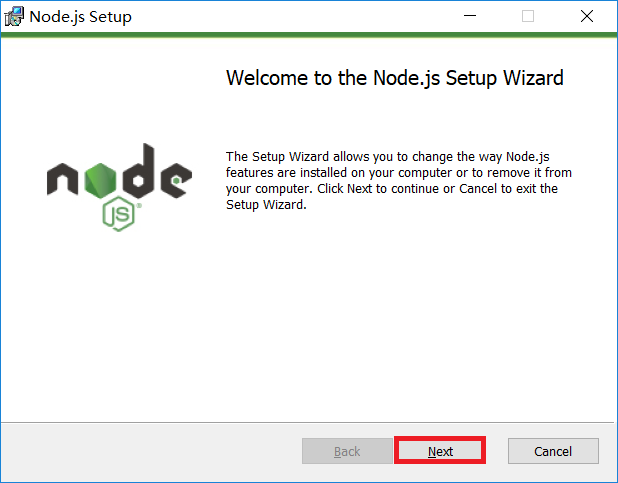
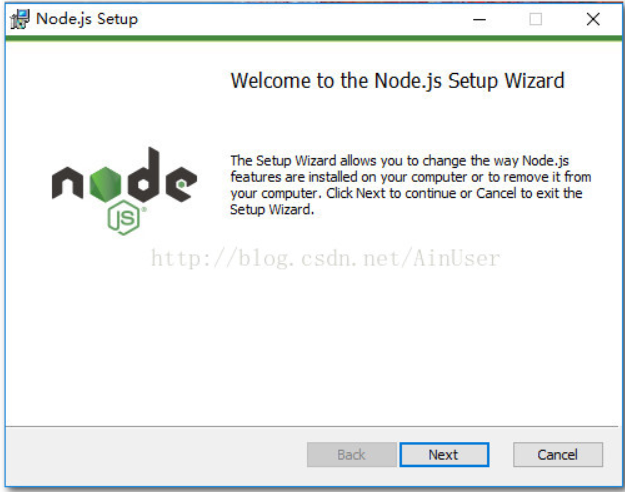
Site updated: 2018-10-15 10:14:35

diff --git a/2018/10/15/Hexo-Github搭建个人博客/index.html b/2018/10/15/Hexo-Github搭建个人博客/index.html
@@ -13,17 +13,18 @@
 <meta property="og:site_name" content="去年夏天">
 <meta property="og:description" content="环境配置：    电脑系统为window 10专业版，64位，Nodejs, Github, Hexo, livere, Leancloud, ShareSDK, Dalao    原文：https://blog.csdn.net/ainuser/article/details/77609180?utm_source=copy    首先呢，先说一下吧，这是本人第一次写博客，也是在大学生时代的一个">
 <meta property="og:locale" content="default">
+<meta property="og:image" content="http://www.lastsummer.top/2018/10/15/Hexo-Github搭建个人博客/nodejs1.png">
 <meta property="og:image" content="http://www.lastsummer.top/2018/10/15/Hexo-Github搭建个人博客/nodejs2.png">
 <meta property="og:image" content="http://www.lastsummer.top/2018/10/15/Hexo-Github搭建个人博客/nodejs3.png">
 <meta property="og:image" content="http://www.lastsummer.top/2018/10/15/Hexo-Github搭建个人博客/nodejs4.png">
 <meta property="og:image" content="http://www.lastsummer.top/2018/10/15/Hexo-Github搭建个人博客/nodejs5.png">
 <meta property="og:image" content="http://www.lastsummer.top/2018/10/15/Hexo-Github搭建个人博客/nodejs6.png">
 <meta property="og:image" content="http://www.lastsummer.top/2018/10/15/Hexo-Github搭建个人博客/nodejs7.png">
-<meta property="og:updated_time" content="2018-10-15T02:11:49.911Z">
+<meta property="og:updated_time" content="2018-10-15T02:13:15.352Z">
 <meta name="twitter:card" content="summary">
 <meta name="twitter:title" content="Hexo-Github搭建个人博客">
 <meta name="twitter:description" content="环境配置：    电脑系统为window 10专业版，64位，Nodejs, Github, Hexo, livere, Leancloud, ShareSDK, Dalao    原文：https://blog.csdn.net/ainuser/article/details/77609180?utm_source=copy    首先呢，先说一下吧，这是本人第一次写博客，也是在大学生时代的一个">
-<meta name="twitter:image" content="http://www.lastsummer.top/2018/10/15/Hexo-Github搭建个人博客/nodejs2.png">
+<meta name="twitter:image" content="http://www.lastsummer.top/2018/10/15/Hexo-Github搭建个人博客/nodejs1.png">
   
     <link rel="alternate" href="/atom.xml" title="去年夏天" type="application/atom+xml">
   
@@ -132,14 +133,14 @@
     <div class="article-entry" itemprop="articleBody">
       
         <p>环境配置：<br>    电脑系统为window 10专业版，64位，Nodejs, Github, Hexo, livere, Leancloud, ShareSDK, Dalao<br>    原文：<a href="https://blog.csdn.net/ainuser/article/details/77609180?utm_source=copy" target="_blank" rel="noopener">https://blog.csdn.net/ainuser/article/details/77609180?utm_source=copy</a>    <br><br>首先呢，先说一下吧，这是本人第一次写博客，也是在大学生时代的一个想法，现在终于实现了。<br>花了几天的时间，研究了一下，颇有收获，而我在找资料的过程中，都是这个博客找点那个博客找点，都没有一个博客的教程是很详细且到位的，哎，醉了，感谢你们一直看到这里听我在这里碎碎念，最后啰嗦一句，有什么问题，及时下方评论(不是私信)，因为我几乎每天登陆博客，所以看到后会及时回复大家的。</p>
-<h2 id="相关步骤"><a href="#相关步骤" class="headerlink" title="相关步骤"></a>相关步骤</h2><h3 id="安装Node-js和配置好Node-js环境-我的版本node-v10-11-0-x64-msi"><a href="#安装Node-js和配置好Node-js环境-我的版本node-v10-11-0-x64-msi" class="headerlink" title="安装Node.js和配置好Node.js环境,我的版本node-v10.11.0-x64.msi"></a>安装Node.js和配置好Node.js环境,我的版本node-v10.11.0-x64.msi</h3><p>1.访问官方地址 <a href="https://nodejs.org/en/download/" target="_blank" rel="noopener">https://nodejs.org/en/download/</a> 根据自己的系统进行下载。<br>!(Hexo-Github搭建个人博客/nodejs1.png)<br><img src="/2018/10/15/Hexo-Github搭建个人博客/nodejs2.png" alt="点击next"><br><img src="/2018/10/15/Hexo-Github搭建个人博客/nodejs3.png" alt="点击next"><br><img src="/2018/10/15/Hexo-Github搭建个人博客/nodejs4.png" alt="修改安装路径，点击next"><br><img src="/2018/10/15/Hexo-Github搭建个人博客/nodejs5.png" alt="点击next"><br><img src="/2018/10/15/Hexo-Github搭建个人博客/nodejs6.png" alt="点击Install"><br><img src="/2018/10/15/Hexo-Github搭建个人博客/nodejs7.png" alt="点击Finish"><br>至此，node.js安装步骤完毕。<br><figure class="highlight bash"><table><tr><td class="gutter"><pre><span class="line">1</span><br><span class="line">2</span><br></pre></td><td class="code"><pre><span class="line"></span><br><span class="line"></span><br></pre></td></tr></table></figure></p>
+<h2 id="相关步骤"><a href="#相关步骤" class="headerlink" title="相关步骤"></a>相关步骤</h2><h3 id="安装Node-js和配置好Node-js环境-我的版本node-v10-11-0-x64-msi"><a href="#安装Node-js和配置好Node-js环境-我的版本node-v10-11-0-x64-msi" class="headerlink" title="安装Node.js和配置好Node.js环境,我的版本node-v10.11.0-x64.msi"></a>安装Node.js和配置好Node.js环境,我的版本node-v10.11.0-x64.msi</h3><p>1.访问官方地址 <a href="https://nodejs.org/en/download/" target="_blank" rel="noopener">https://nodejs.org/en/download/</a> 根据自己的系统进行下载。<br><img src="/2018/10/15/Hexo-Github搭建个人博客/nodejs1.png" alt=""><br><img src="/2018/10/15/Hexo-Github搭建个人博客/nodejs2.png" alt="点击next"><br><img src="/2018/10/15/Hexo-Github搭建个人博客/nodejs3.png" alt="点击next"><br><img src="/2018/10/15/Hexo-Github搭建个人博客/nodejs4.png" alt="修改安装路径，点击next"><br><img src="/2018/10/15/Hexo-Github搭建个人博客/nodejs5.png" alt="点击next"><br><img src="/2018/10/15/Hexo-Github搭建个人博客/nodejs6.png" alt="点击Install"><br><img src="/2018/10/15/Hexo-Github搭建个人博客/nodejs7.png" alt="点击Finish"><br>至此，node.js安装步骤完毕。<br><figure class="highlight bash"><table><tr><td class="gutter"><pre><span class="line">1</span><br><span class="line">2</span><br></pre></td><td class="code"><pre><span class="line"></span><br><span class="line"></span><br></pre></td></tr></table></figure></p>
 <p>More info: <a href="https://hexo.io/docs/writing.html" target="_blank" rel="noopener">Writing</a></p>
 <a id="more"></a>
 
       
     </div>
     <footer class="article-footer">
-      <a data-url="http://www.lastsummer.top/2018/10/15/Hexo-Github搭建个人博客/" data-id="cjn9ny0y0000278vbwm3iiaes" class="article-share-link-test"></a>
+      <a data-url="http://www.lastsummer.top/2018/10/15/Hexo-Github搭建个人博客/" data-id="cjn9o14hx00028gvbn8nfjiw8" class="article-share-link-test"></a>
       
       
   <ul class="article-tag-list"><li class="article-tag-list-item"><a class="article-tag-list-link" href="/tags/Dalao/">Dalao</a></li><li class="article-tag-list-item"><a class="article-tag-list-link" href="/tags/Git/">Git</a></li><li class="article-tag-list-item"><a class="article-tag-list-link" href="/tags/GitHub/">GitHub</a></li><li class="article-tag-list-item"><a class="article-tag-list-link" href="/tags/Hexo/">Hexo</a></li><li class="article-tag-list-item"><a class="article-tag-list-link" href="/tags/Leancloud/">Leancloud</a></li><li class="article-tag-list-item"><a class="article-tag-list-link" href="/tags/Nodejs/">Nodejs</a></li><li class="article-tag-list-item"><a class="article-tag-list-link" href="/tags/ShareSDK/">ShareSDK</a></li><li class="article-tag-list-item"><a class="article-tag-list-link" href="/tags/livere/">livere</a></li></ul>

diff --git a/index.html b/index.html
@@ -122,7 +122,7 @@
     <div class="article-entry" itemprop="articleBody">
       
         <p>环境配置：<br>    电脑系统为window 10专业版，64位，Nodejs, Github, Hexo, livere, Leancloud, ShareSDK, Dalao<br>    原文：<a href="https://blog.csdn.net/ainuser/article/details/77609180?utm_source=copy" target="_blank" rel="noopener">https://blog.csdn.net/ainuser/article/details/77609180?utm_source=copy</a>    <br><br>首先呢，先说一下吧，这是本人第一次写博客，也是在大学生时代的一个想法，现在终于实现了。<br>花了几天的时间，研究了一下，颇有收获，而我在找资料的过程中，都是这个博客找点那个博客找点，都没有一个博客的教程是很详细且到位的，哎，醉了，感谢你们一直看到这里听我在这里碎碎念，最后啰嗦一句，有什么问题，及时下方评论(不是私信)，因为我几乎每天登陆博客，所以看到后会及时回复大家的。</p>
-<h2 id="相关步骤"><a href="#相关步骤" class="headerlink" title="相关步骤"></a>相关步骤</h2><h3 id="安装Node-js和配置好Node-js环境-我的版本node-v10-11-0-x64-msi"><a href="#安装Node-js和配置好Node-js环境-我的版本node-v10-11-0-x64-msi" class="headerlink" title="安装Node.js和配置好Node.js环境,我的版本node-v10.11.0-x64.msi"></a>安装Node.js和配置好Node.js环境,我的版本node-v10.11.0-x64.msi</h3><p>1.访问官方地址 <a href="https://nodejs.org/en/download/" target="_blank" rel="noopener">https://nodejs.org/en/download/</a> 根据自己的系统进行下载。<br>!(Hexo-Github搭建个人博客/nodejs1.png)<br><img src="/2018/10/15/Hexo-Github搭建个人博客/nodejs2.png" alt="点击next"><br><img src="/2018/10/15/Hexo-Github搭建个人博客/nodejs3.png" alt="点击next"><br><img src="/2018/10/15/Hexo-Github搭建个人博客/nodejs4.png" alt="修改安装路径，点击next"><br><img src="/2018/10/15/Hexo-Github搭建个人博客/nodejs5.png" alt="点击next"><br><img src="/2018/10/15/Hexo-Github搭建个人博客/nodejs6.png" alt="点击Install"><br><img src="/2018/10/15/Hexo-Github搭建个人博客/nodejs7.png" alt="点击Finish"><br>至此，node.js安装步骤完毕。<br><figure class="highlight bash"><table><tr><td class="gutter"><pre><span class="line">1</span><br><span class="line">2</span><br></pre></td><td class="code"><pre><span class="line"></span><br><span class="line"></span><br></pre></td></tr></table></figure></p>
+<h2 id="相关步骤"><a href="#相关步骤" class="headerlink" title="相关步骤"></a>相关步骤</h2><h3 id="安装Node-js和配置好Node-js环境-我的版本node-v10-11-0-x64-msi"><a href="#安装Node-js和配置好Node-js环境-我的版本node-v10-11-0-x64-msi" class="headerlink" title="安装Node.js和配置好Node.js环境,我的版本node-v10.11.0-x64.msi"></a>安装Node.js和配置好Node.js环境,我的版本node-v10.11.0-x64.msi</h3><p>1.访问官方地址 <a href="https://nodejs.org/en/download/" target="_blank" rel="noopener">https://nodejs.org/en/download/</a> 根据自己的系统进行下载。<br><img src="/2018/10/15/Hexo-Github搭建个人博客/nodejs1.png" alt=""><br><img src="/2018/10/15/Hexo-Github搭建个人博客/nodejs2.png" alt="点击next"><br><img src="/2018/10/15/Hexo-Github搭建个人博客/nodejs3.png" alt="点击next"><br><img src="/2018/10/15/Hexo-Github搭建个人博客/nodejs4.png" alt="修改安装路径，点击next"><br><img src="/2018/10/15/Hexo-Github搭建个人博客/nodejs5.png" alt="点击next"><br><img src="/2018/10/15/Hexo-Github搭建个人博客/nodejs6.png" alt="点击Install"><br><img src="/2018/10/15/Hexo-Github搭建个人博客/nodejs7.png" alt="点击Finish"><br>至此，node.js安装步骤完毕。<br><figure class="highlight bash"><table><tr><td class="gutter"><pre><span class="line">1</span><br><span class="line">2</span><br></pre></td><td class="code"><pre><span class="line"></span><br><span class="line"></span><br></pre></td></tr></table></figure></p>
 <p>More info: <a href="https://hexo.io/docs/writing.html" target="_blank" rel="noopener">Writing</a></p>
         
           <p class="article-more-link">
@@ -132,7 +132,7 @@
       
     </div>
     <footer class="article-footer">
-      <a data-url="http://www.lastsummer.top/2018/10/15/Hexo-Github搭建个人博客/" data-id="cjn9ny0y0000278vbwm3iiaes" class="article-share-link-test"></a>
+      <a data-url="http://www.lastsummer.top/2018/10/15/Hexo-Github搭建个人博客/" data-id="cjn9o14hx00028gvbn8nfjiw8" class="article-share-link-test"></a>
       
       
   <ul class="article-tag-list"><li class="article-tag-list-item"><a class="article-tag-list-link" href="/tags/Dalao/">Dalao</a></li><li class="article-tag-list-item"><a class="article-tag-list-link" href="/tags/Git/">Git</a></li><li class="article-tag-list-item"><a class="article-tag-list-link" href="/tags/GitHub/">GitHub</a></li><li class="article-tag-list-item"><a class="article-tag-list-link" href="/tags/Hexo/">Hexo</a></li><li class="article-tag-list-item"><a class="article-tag-list-link" href="/tags/Leancloud/">Leancloud</a></li><li class="article-tag-list-item"><a class="article-tag-list-link" href="/tags/Nodejs/">Nodejs</a></li><li class="article-tag-list-item"><a class="article-tag-list-link" href="/tags/ShareSDK/">ShareSDK</a></li><li class="article-tag-list-item"><a class="article-tag-list-link" href="/tags/livere/">livere</a></li></ul>
@@ -234,7 +234,7 @@
       
     </div>
     <footer class="article-footer">
-      <a data-url="http://www.lastsummer.top/2018/10/11/hello-world/" data-id="cjn9ny0y6000478vbii81efjw" class="article-share-link-test"></a>
+      <a data-url="http://www.lastsummer.top/2018/10/11/hello-world/" data-id="cjn9o14i200048gvbcdy4f65o" class="article-share-link-test"></a>
       
       
   <ul class="article-tag-list"><li class="article-tag-list-item"><a class="article-tag-list-link" href="/tags/test/">test</a></li></ul>

diff --git a/2018/10/11/hello-world/index.html b/2018/10/11/hello-world/index.html
@@ -137,7 +137,7 @@
       
     </div>
     <footer class="article-footer">
-      <a data-url="http://www.lastsummer.top/2018/10/11/hello-world/" data-id="cjn9ny0y6000478vbii81efjw" class="article-share-link-test"></a>
+      <a data-url="http://www.lastsummer.top/2018/10/11/hello-world/" data-id="cjn9o14i200048gvbcdy4f65o" class="article-share-link-test"></a>
       
       
   <ul class="article-tag-list"><li class="article-tag-list-item"><a class="article-tag-list-link" href="/tags/test/">test</a></li></ul>

diff --git a/photos/index.html b/photos/index.html
@@ -200,7 +200,7 @@ photo.init();
       
     </div>
     <footer class="article-footer">
-      <a data-url="http://www.lastsummer.top/photos/index.html" data-id="cjn9ny0yc000978vb8mmlvdhh" class="article-share-link-test"></a>
+      <a data-url="http://www.lastsummer.top/photos/index.html" data-id="cjn9o14id000c8gvbti5vxl0h" class="article-share-link-test"></a>
       
       
     </footer>

diff --git a/about/index.html b/about/index.html
@@ -115,7 +115,7 @@
       
     </div>
     <footer class="article-footer">
-      <a data-url="http://www.lastsummer.top/about/index.html" data-id="cjn9ny0y4000378vbdqi21ra7" class="article-share-link-test"></a>
+      <a data-url="http://www.lastsummer.top/about/index.html" data-id="cjn9o14i100038gvbdamur3sg" class="article-share-link-test"></a>
       
       
     </footer>

diff --git a/README.html b/README.html
@@ -100,7 +100,7 @@
       
     </div>
     <footer class="article-footer">
-      <a data-url="http://www.lastsummer.top/README.html" data-id="cjn9ny0xa000078vbashh83w4" class="article-share-link-test"></a>
+      <a data-url="http://www.lastsummer.top/README.html" data-id="cjn9o14hb00008gvbdsytlkni" class="article-share-link-test"></a>
       
       
     </footer>

diff --git a/404.html b/404.html
@@ -114,7 +114,7 @@
       
     </div>
     <footer class="article-footer">
-      <a data-url="http://www.lastsummer.top//404.html" data-id="cjn9ny0xn000178vbpmlb08f3" class="article-share-link-test"></a>
+      <a data-url="http://www.lastsummer.top//404.html" data-id="cjn9o14hw00018gvbrm5qxghf" class="article-share-link-test"></a>
       
       
     </footer>
